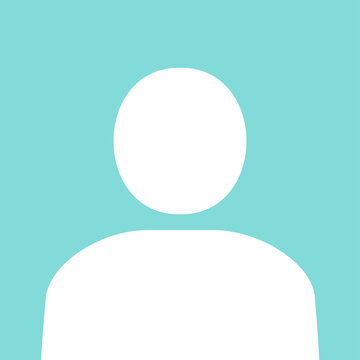
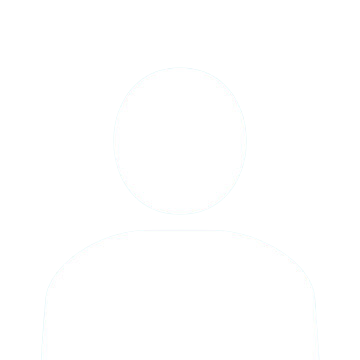
update ScreenSetUserProfileName darkmode color, n removing default profile image background

diff --git a/lib/src/screens/auth/complete_profile/screen_set_user_profile_name.dart b/lib/src/screens/auth/complete_profile/screen_set_user_profile_name.dart
@@ -1,8 +1,10 @@
 import 'package:firebase_auth/firebase_auth.dart';
 import 'package:flutter/material.dart';
 import 'package:get/get.dart';
+import 'package:grasp_app/src/provider/theme_provider.dart';
 import 'package:grasp_app/src/reusable_codes/functions/functions.dart';
 import 'package:grasp_app/src/screens/auth/complete_profile/screen_set_user_profile_image.dart';
+import 'package:provider/provider.dart';
 
 class ScreenSetUserProfileName extends StatefulWidget {
   const ScreenSetUserProfileName({
@@ -59,7 +61,7 @@ class _ScreenSetUserProfileNameState extends State<ScreenSetUserProfileName> {
                         maxLength: 15,
                         decoration: InputDecoration(
                           filled: true,
-                          fillColor: Colors.white70,
+                          fillColor: Provider.of<ThemeProvider>(context).isDarkMode ? Colors.black54 : Colors.white70,
                           hintText: 'Username',
                           prefixIcon: customePaddingOnly(
                             thePaddingLeft: 10,
